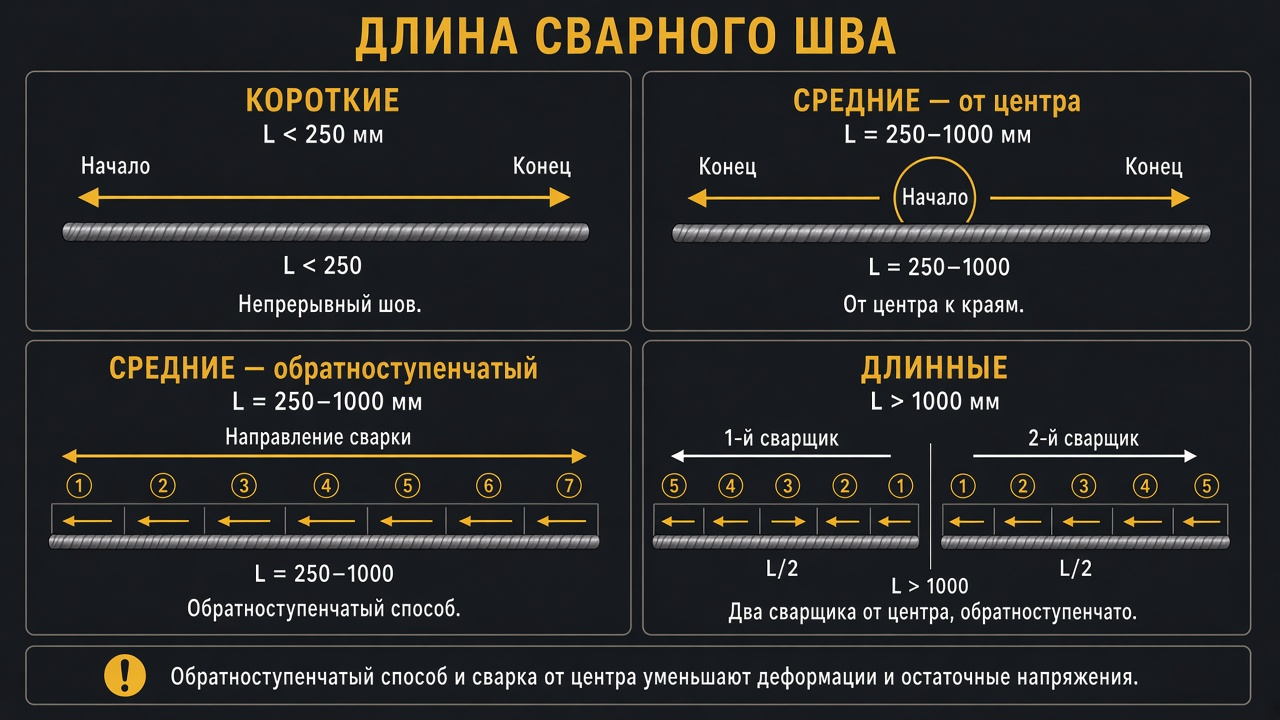
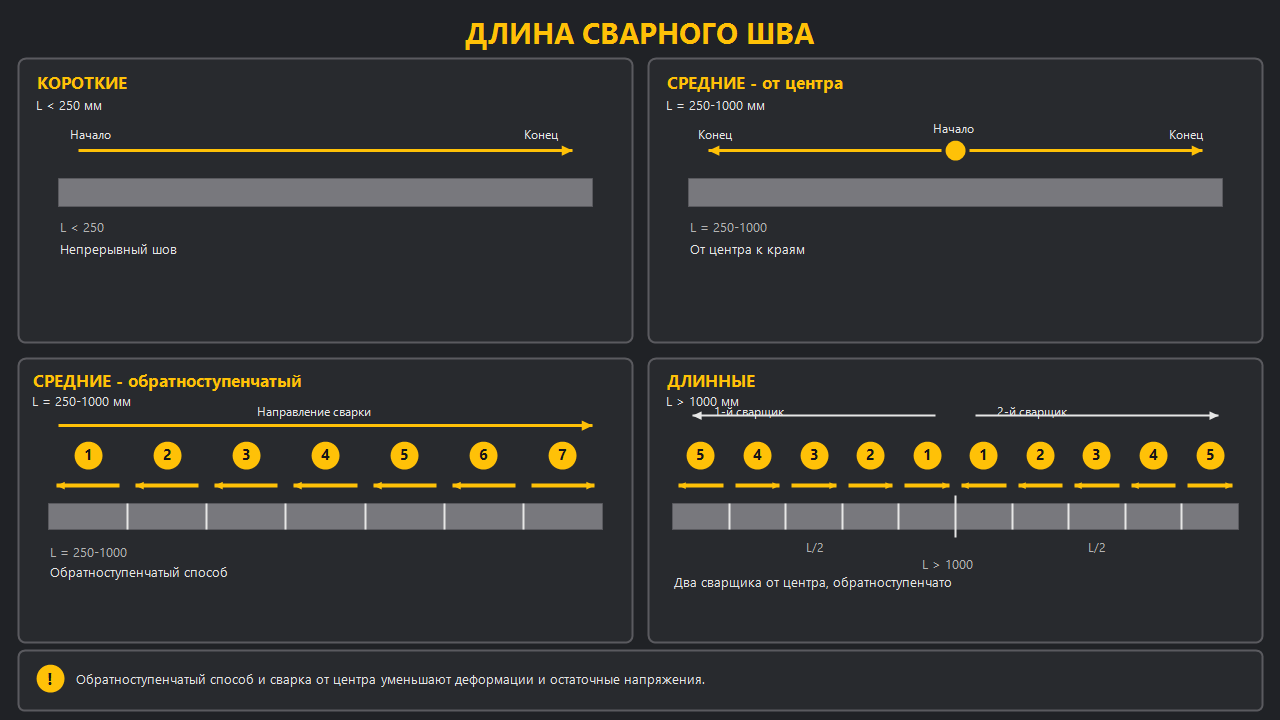
Publish seam-length arrow fix v26 to Pages.

Changed region(s): [[0.0, 0.0, 1.0, 1.0]]

diff --git a/docs/js/lms-data.js b/docs/js/lms-data.js
@@ -1229,7 +1229,7 @@ window.LMS_DATA = {
               "caption": "Этапы технологии сварки"
             },
             {
-              "src": "./images/generated/basics-seam-length.png?v=25",
+              "src": "./images/generated/basics-seam-length.png?v=26",
               "caption": "Длина шва: короткие <250; средние 250–1000 (от центра / обратноступенчатый); длинные >1000 (два сварщика)"
             }
           ],

diff --git a/js/lms-data.js b/js/lms-data.js
@@ -1229,7 +1229,7 @@ window.LMS_DATA = {
               "caption": "Этапы технологии сварки"
             },
             {
-              "src": "./images/generated/basics-seam-length.png?v=25",
+              "src": "./images/generated/basics-seam-length.png?v=26",
               "caption": "Длина шва: короткие <250; средние 250–1000 (от центра / обратноступенчатый); длинные >1000 (два сварщика)"
             }
           ],
